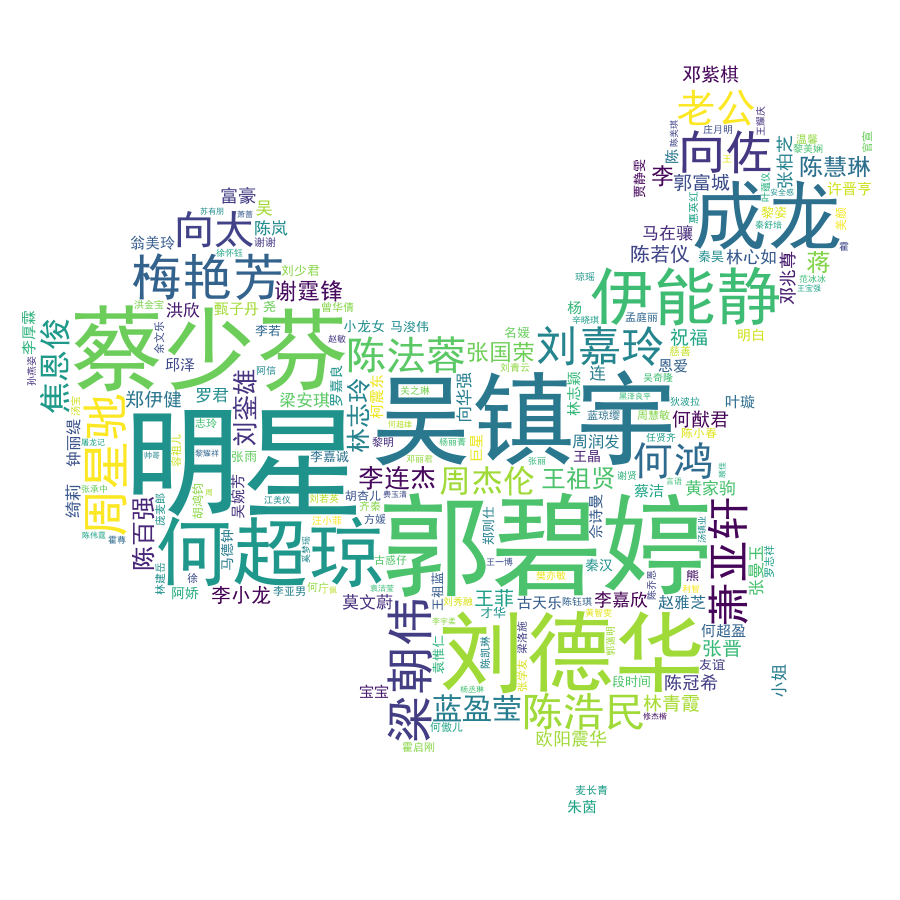
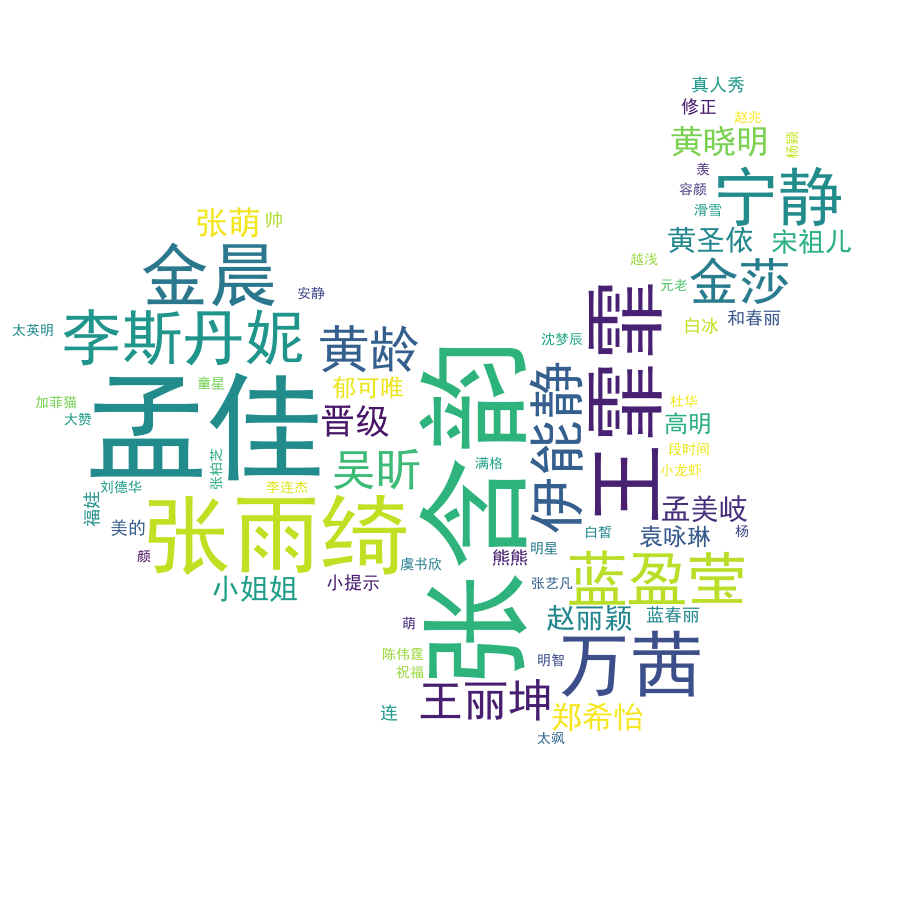
无

Changed region(s): [[0.0, 0.0622, 0.9644, 0.84], [0.6222, 0.8711, 0.6844, 0.9022], [0.84, 0.7467, 0.8711, 0.7778]]

diff --git a/newscrawler/cfpl-crawler.py b/newscrawler/cfpl-crawler.py
@@ -1,6 +1,8 @@
 from tqdm import tqdm
 import requests
 
+import re
+
 import newspaper
 # 词频统计库
 import collections  
@@ -19,13 +21,49 @@ from PIL import Image
 # stop_words += open('hit_stopwords.txt', 'r', encoding='utf-8').read().split('\n')
 # stop_words += open('scu_stopwords.txt', 'r', encoding='utf-8').read().split('\n')
 
-stop_words = []
+stop_words = ['明星', '老公', '王']
+add_words = [
+    '阿朵',
+    '郑希怡',
+    '宁静',
+    '陈松伶',
+    '钟丽缇',
+    '伊能静',
+    '海陆',
+    '金晨',
+    '蓝盈莹',
+    '王丽坤',
+    '万茜',
+    '张萌',
+    '金莎',
+    '刘芸',
+    '沈梦辰',
+    '吴昕',
+    '郁可唯',
+    '朱婧汐',
+    '丁当',
+    '黄龄',
+    '孟佳',
+    '王霏霏',
+    '许飞',
+    '袁咏琳',
+    '张雨绮',
+    '黄圣依',
+    '张含韵',
+    '王智',
+    '白冰',
+    '李斯丹妮'
+]
 
-url = 'https://pacaio.match.qq.com/irs/rcd?cid=52&token=8f6b50e1667f130c10f981309e1d8200&ext=106,118,108&page=%s'
+[jieba.del_word(word) for word in stop_words]
+[jieba.add_word(word, tag='nr') for word in add_words]
+
+url = 'https://pacaio.match.qq.com/irs/rcd?cid=146&token=49cbb2154853ef1a74ff4e53723372ce&ext=ent&page=%s'
 
 links = []
 
-for page in range(50):
+for page in range(10):
+    print('get page: %s' % page)
     response = requests.get(url % page)
     links += [data['vurl'] for data in response.json()['data']]
 
@@ -45,12 +83,16 @@ for link in links:
         content = paper.title + paper.text
         if not content:
             continue
+    
+        if '浪姐' not in content and '乘风破浪' not in content:
+            continue
 
         print(paper.title)
-
-        for word in pseg.cut(paper.text):
+        # pattern = re.compile(r'《(*)》', re.I)
+        # words += pattern.findall(content)
+    
+        for word in pseg.cut(content):
             if 'nr' == word.flag:
-            # if 'n' in word.flag and word.word not in stop_words:
                 words.append(word.word)
 
 # links = [
@@ -102,7 +144,7 @@ wc = wordcloud.WordCloud(
     mask=mask,
     max_words=200,
     mode='RGBA',
-    background_color=None,
+    background_color='#FFF',
     max_font_size=120
 )
 
